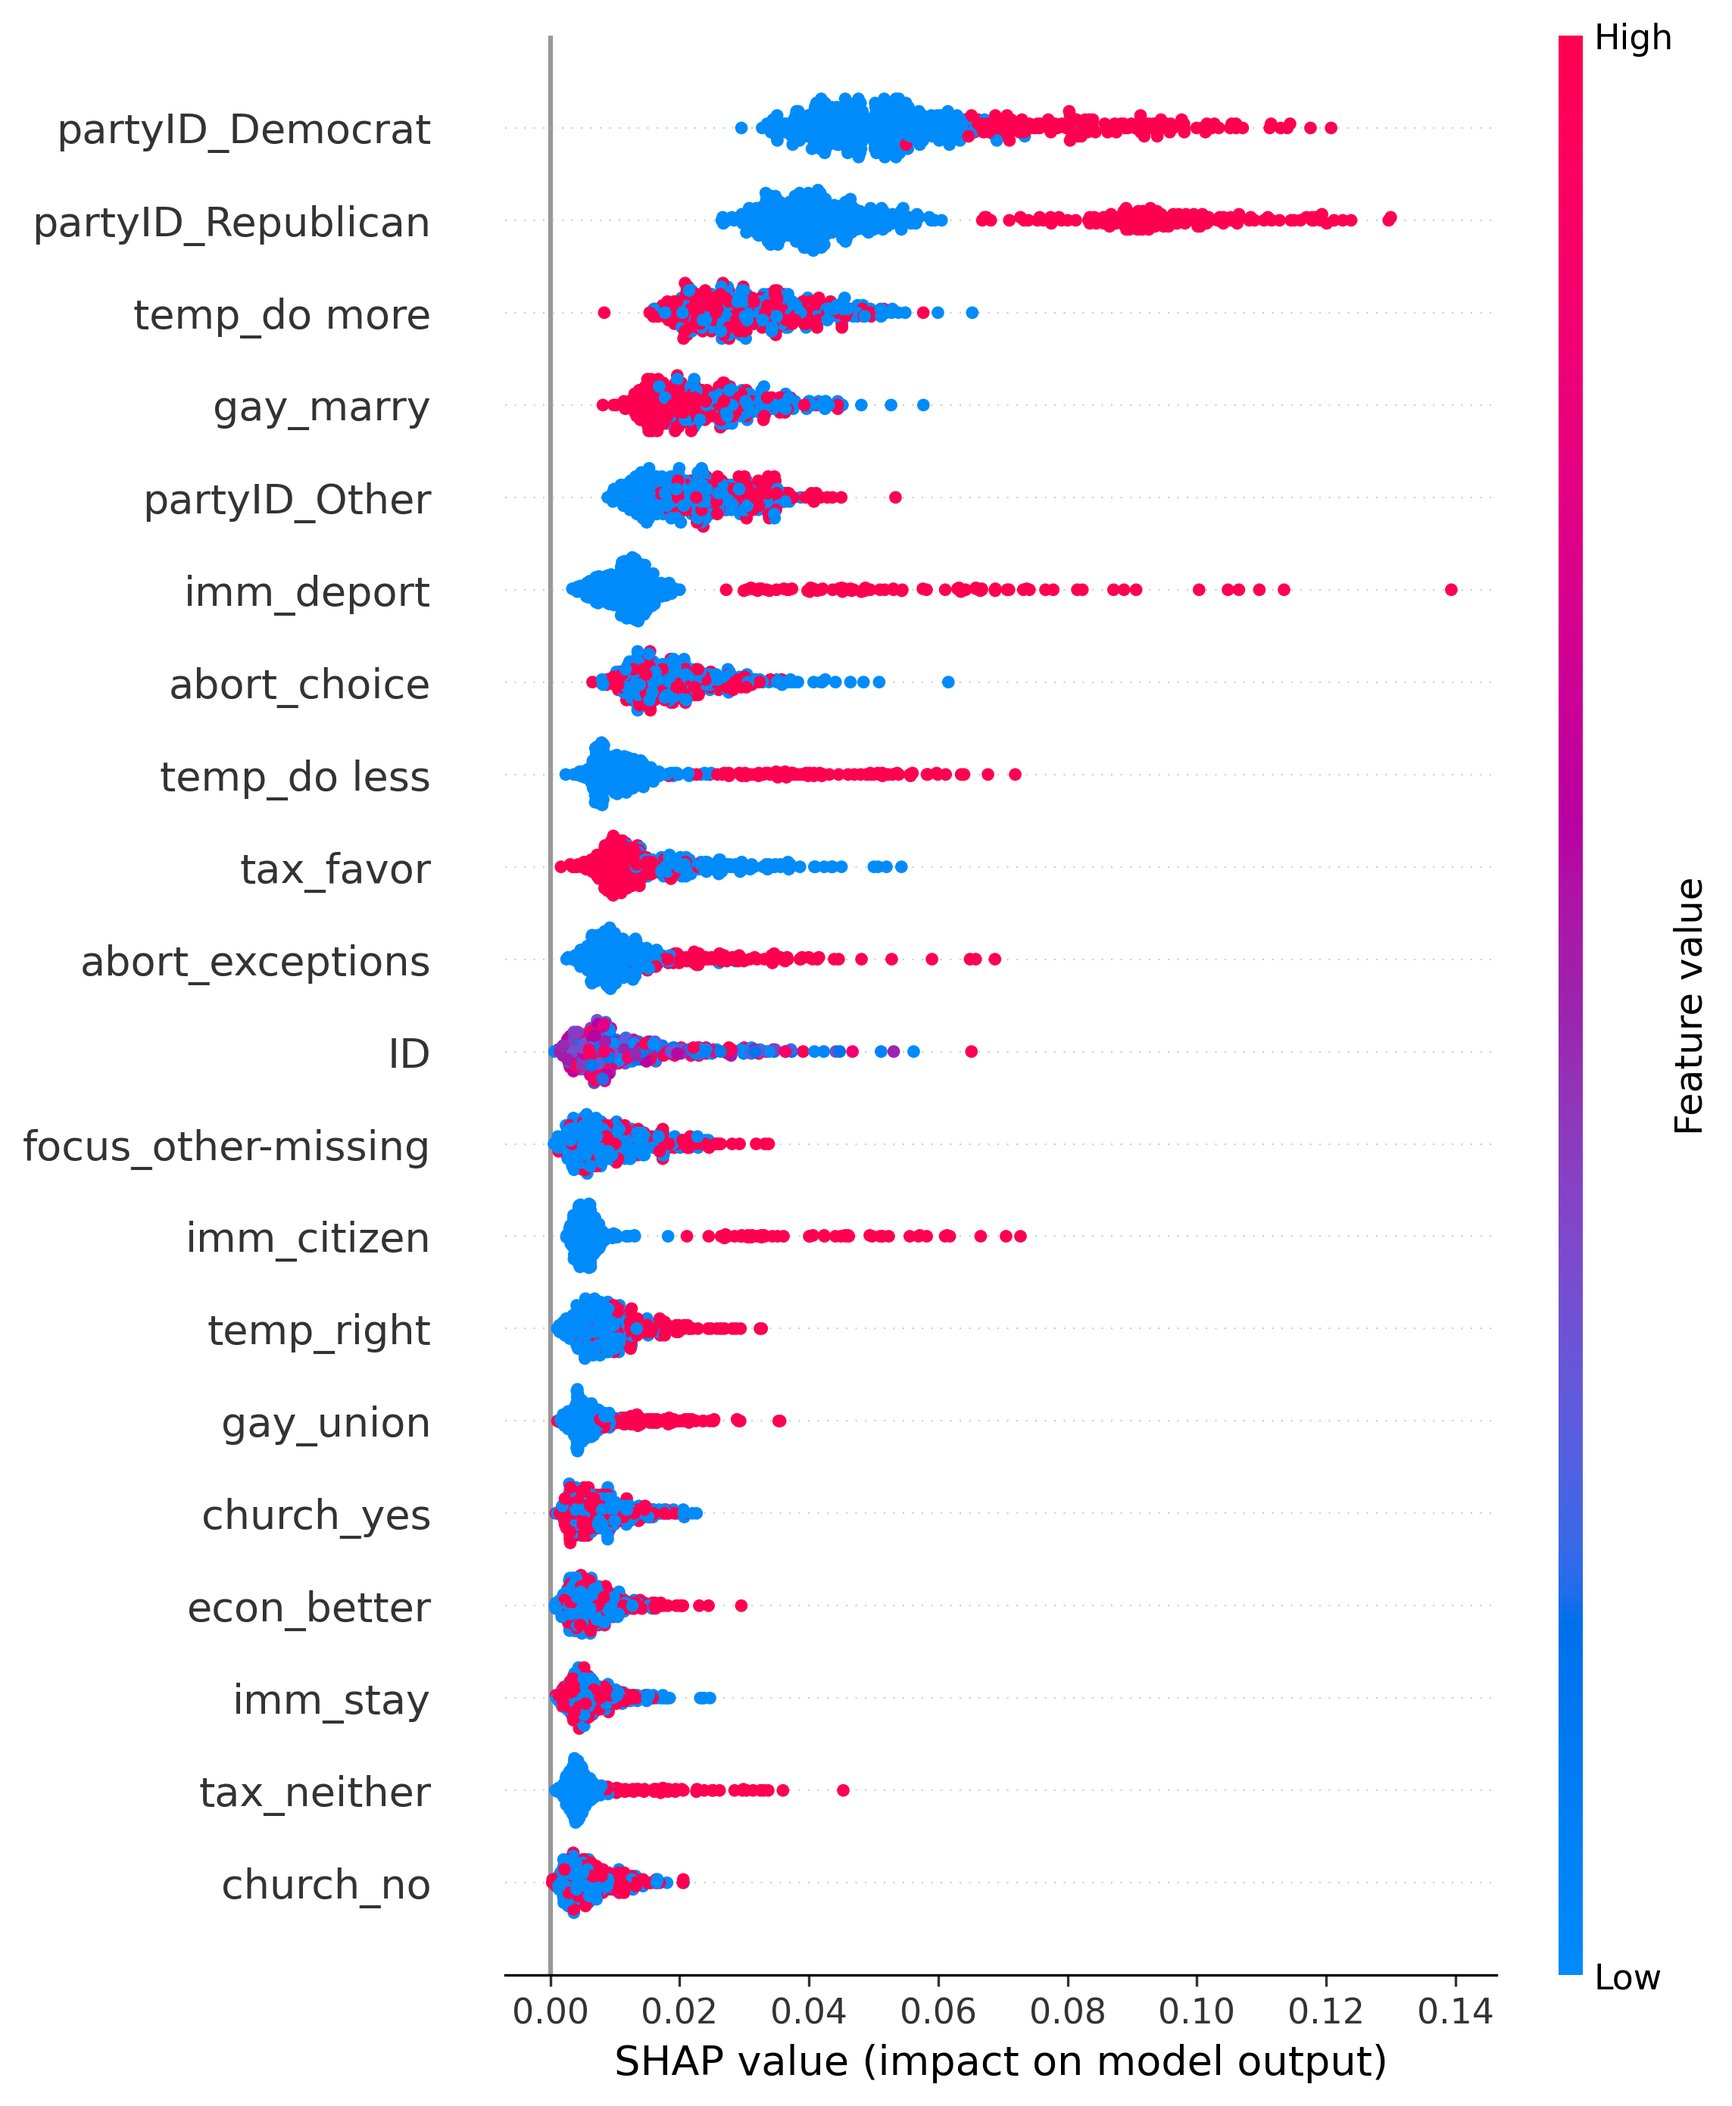
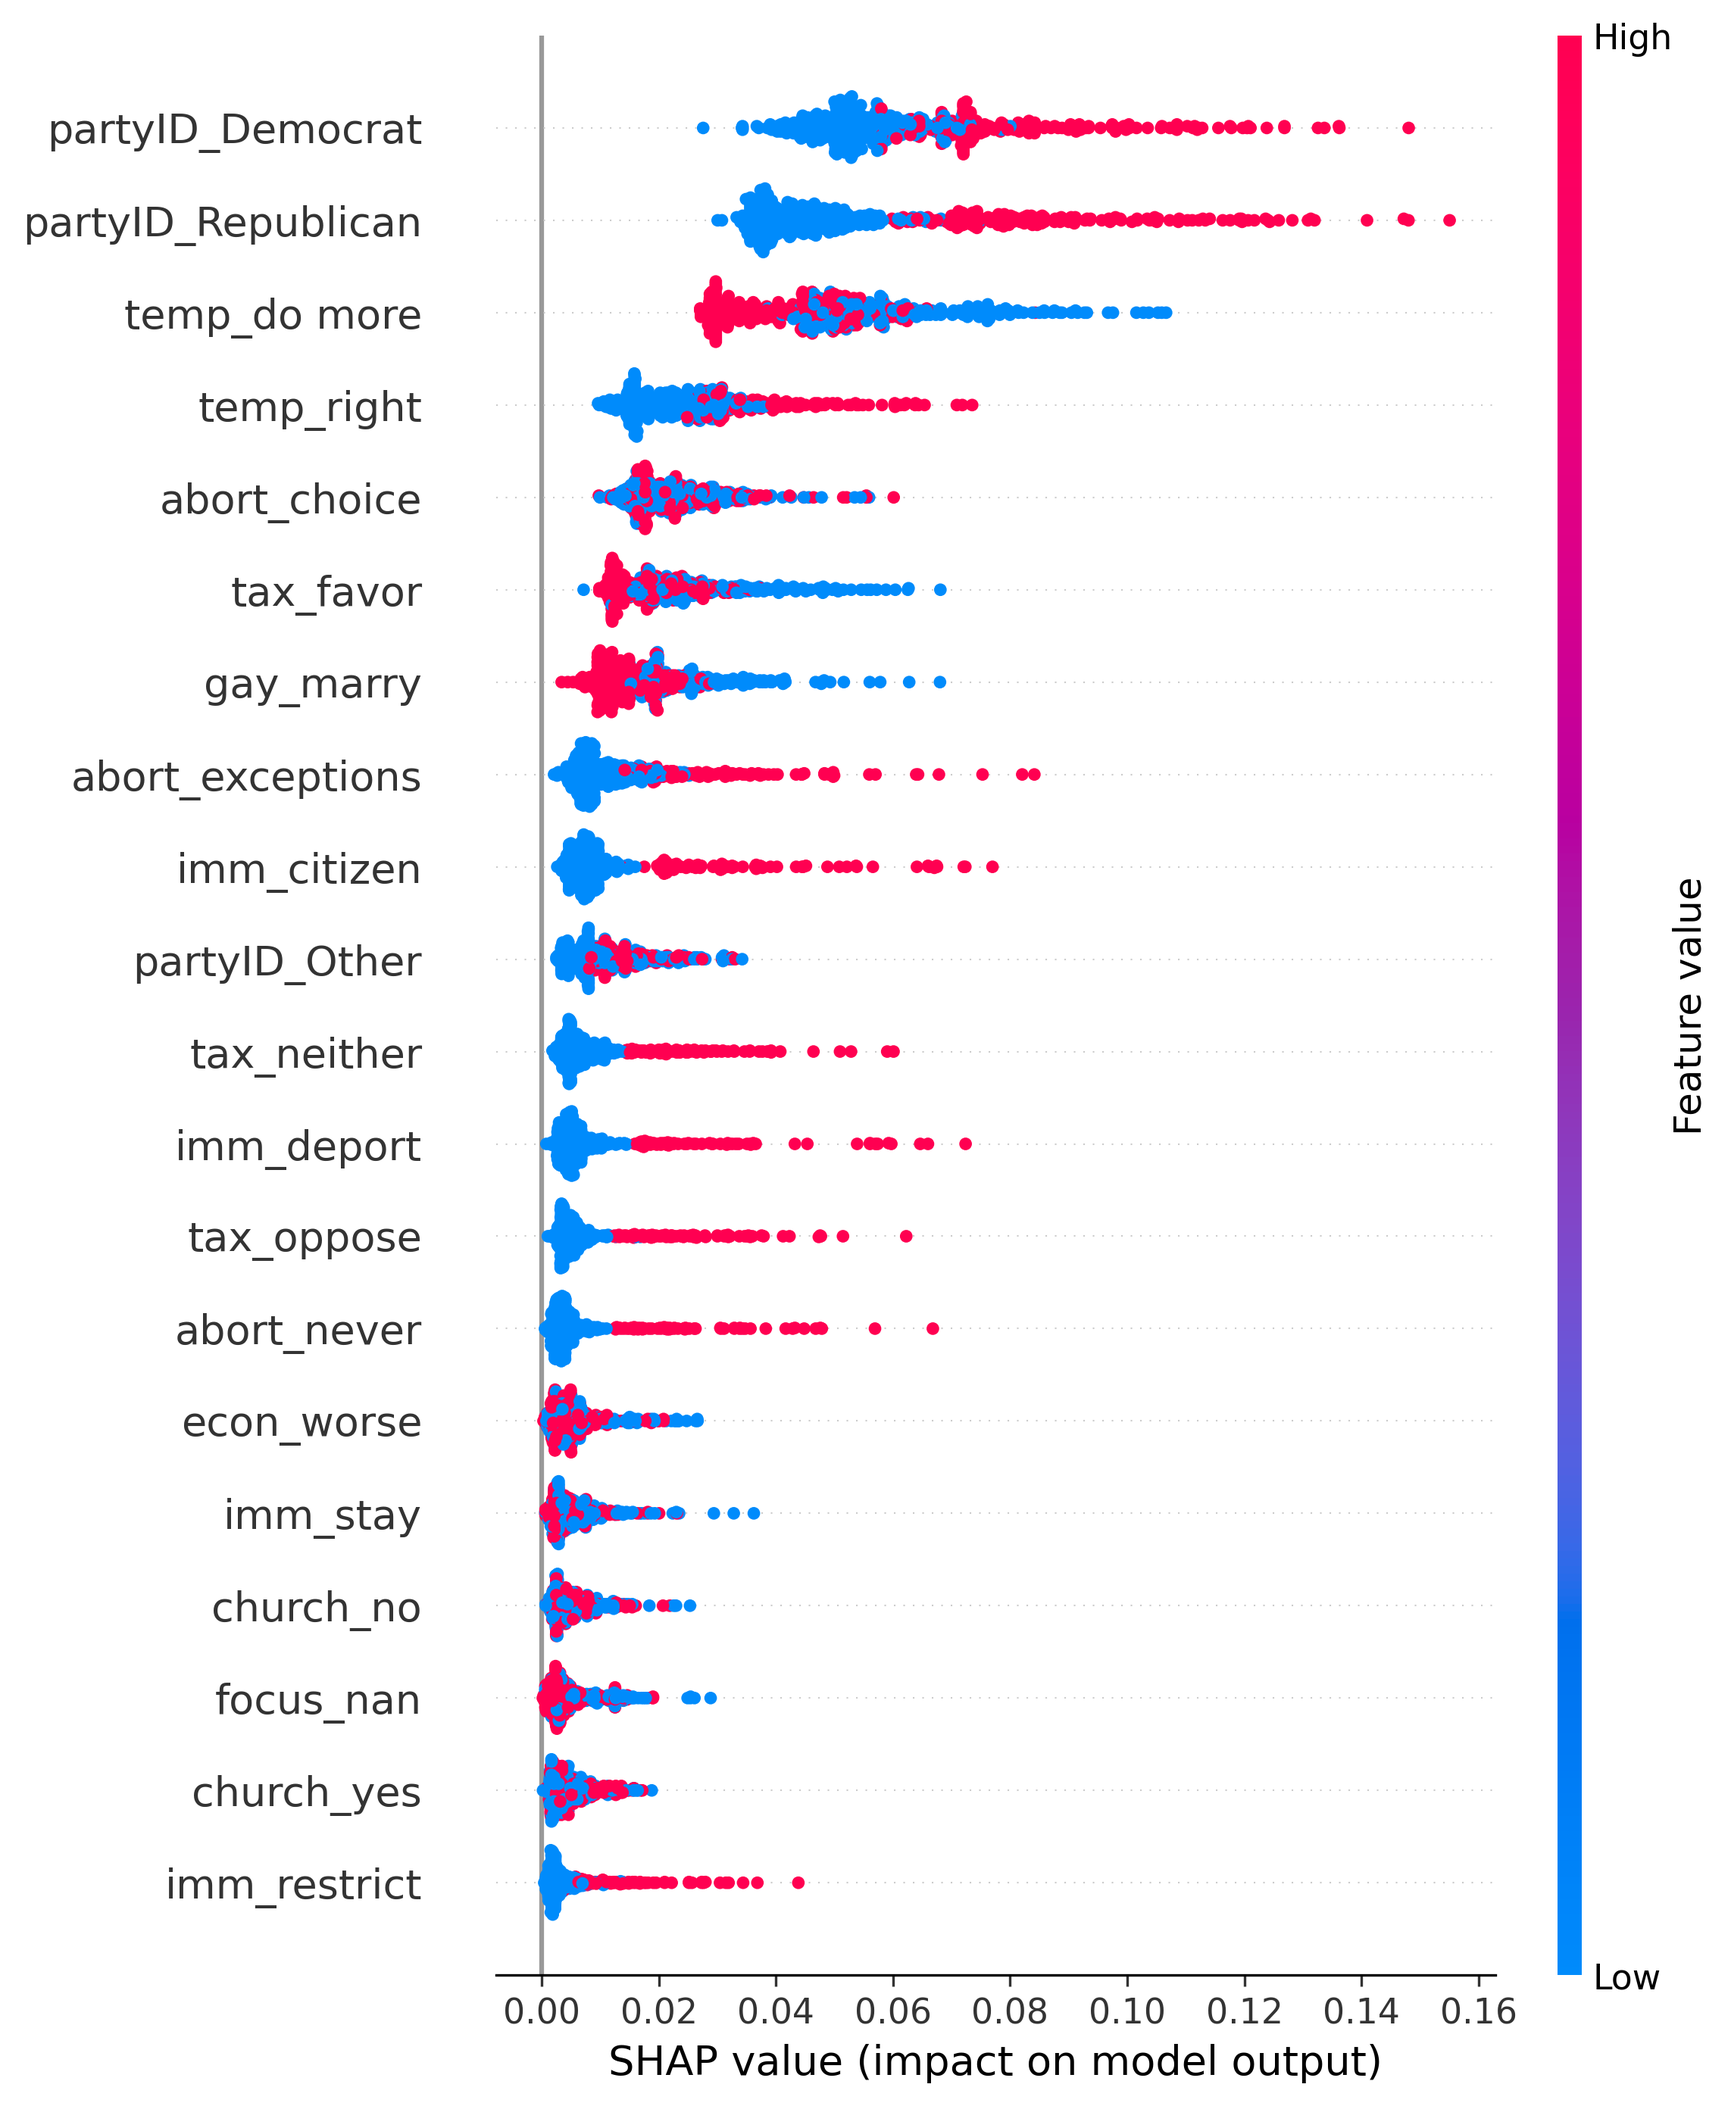
playing a bit more with SHAP values and also with more theoretical models to explain belief change

diff --git a/ANES/5_fit_mdl.py b/ANES/5_fit_mdl.py
@@ -11,11 +11,10 @@ import matplotlib.pyplot as plt
 data_complete = pd.read_csv('data/anes_complete.csv')
 
 # start with 2016
-data_complete = data_complete[data_complete['year']==2016]
+data_complete = data_complete[data_complete['year']==2020]
 data_complete = data_complete[data_complete['question'] != 'vote']
 data_beliefs = data_complete[~data_complete['question'].isin(['who', 'pref'])]
 data_voting = data_complete[data_complete['question'] == 'who']
-
 
 # data voting is now easy to use as outcome y
 data_voting = data_voting[['ID', 'answer']].drop_duplicates()
@@ -28,26 +27,24 @@ data_beliefs_wide = data_beliefs.pivot(index='ID', columns='question', values='a
 data_total = data_beliefs_wide.merge(data_voting, on='ID', how='inner')
 data = data_total.dropna()
 
+# Drop 'ID' column
+data = data_total.drop(columns='ID')
+
 # --- Preprocessing --- #
 X = data.drop("answer", axis=1)
 y = data["answer"]
 
-# Preprocess
-categorical_columns = X.select_dtypes(include="object").columns.tolist()
-numeric_columns = X.select_dtypes(include="number").columns.tolist()
+# Identify categorical columns (all columns in this case are categorical)
+categorical_columns = X.columns.tolist()
 
 # OneHotEncode categorical features
 ohe = OneHotEncoder()
-X_encoded = ohe.fit_transform(X[categorical_columns]).toarray()
+X_encoded = ohe.fit_transform(X).toarray()
 encoded_feature_names = ohe.get_feature_names_out(categorical_columns)
 
-# Standardize numeric features
-scaler = StandardScaler()
-X_scaled = scaler.fit_transform(X[numeric_columns])
-
-# Combine processed features
-X_processed = np.hstack((X_scaled, X_encoded))
-all_feature_names = numeric_columns + list(encoded_feature_names)
+# Combine processed features (only one-hot encoded features)
+X_processed = X_encoded
+all_feature_names = list(encoded_feature_names)
 
 # Split data
 X_train, X_test, y_train, y_test = train_test_split(X_processed, y, test_size=0.2, random_state=42)
@@ -83,10 +80,19 @@ shap.summary_plot(shap_values_class, X_test, feature_names=all_feature_names, sh
 plt.savefig("ml/shap_lib.png", dpi=300, bbox_inches="tight")
 plt.close()
 
-# figure out what the features actually are # 
+class_index = 1
+shap_values_class = shap_values[:, :, class_index]
+fig, ax = plt.subplots()
+shap.summary_plot(shap_values_class, X_test, feature_names=all_feature_names, show=False)
+plt.savefig("ml/shap_novote.png", dpi=300, bbox_inches="tight")
+plt.close()
+
 class_index = 3
 shap_values_class = shap_values[:, :, class_index]
-shap.summary_plot(shap_values_class, X_test, feature_names=all_feature_names)
+fig, ax = plt.subplots()
+shap.summary_plot(shap_values_class, X_test, feature_names=all_feature_names, show=False)
+plt.savefig("ml/shap_cons.png", dpi=300, bbox_inches="tight")
+plt.close()
 
 '''
 What if we are interested in the importance of QUESTIONS rather than ANSWERS. 
@@ -94,27 +100,68 @@ i.e., a QUESTION with many levels will be dilluted in the feature importance.
 '''
 
 shap_values_aggregated = pd.DataFrame(shap_values_mean, columns=all_feature_names)
-shap_values_aggregated = shap_values_aggregated.drop(columns='ID')
 shap_cols = shap_values_aggregated.columns
 feature_dict = {col: col.split('_')[0] for col in shap_cols}
 shap_aggregated = shap_values_aggregated.groupby(feature_dict, axis=1).sum()
 question_importance = shap_aggregated.abs().mean().sort_values(ascending=False)
 question_importance
 
-'''
-So here we get (by far) party identification.
-Then temperature, focus, abortion, immigration, ...
-Church attendance (behavior) is the worst. 
-'''
+### local
+class_of_interest = 'Republican'
 
-'''
-How to think about these SHAPLEY values
-- marginal contribution (unique contribution); but can also "steal" variance + capture some interaction
-'''
+correct_idx = np.where((y_test == class_of_interest) & (y_pred == class_of_interest))[0][0]
+incorrect_idx = np.where((y_test == class_of_interest) & (y_pred != class_of_interest))[0][0]
 
-# recursive feature elimination (RFE)
+print(f"Shape of shap_values[class_index]: {shap_values[class_index].shape}")
+print(f"Shape of X_test: {X_test.shape}")
+print(f"Length of feature_names: {len(all_feature_names)}")
+
+def plot_shap_explanation_precomputed(shap_values, X, index, feature_names, class_index, save_path=None):
+    """
+    Plot SHAP explanation for a single observation using precomputed SHAP values.
+
+    Parameters:
+        shap_values: List of SHAP value arrays (one array per class)
+        X: Test dataset (already preprocessed)
+        index: Index of the observation to explain
+        feature_names: List of feature names
+        class_index: Index of the class to explain
+        save_path: Path to save the plot (optional)
+    """
+    # Ensure SHAP values and feature names align
+    if X.shape[1] != len(feature_names):
+        raise ValueError("Feature names do not match the dimensions of X!")
+
+    # Extract SHAP values for the specific class and observation
+    shap_values_obs = shap_values[class_index][index]
+    observation = X[index]
+
+    # Generate force plot
+    shap.force_plot(
+        explainer.expected_value[class_index],
+        shap_values_obs,
+        observation,
+        feature_names=feature_names,
+        matplotlib=True
+    )
+    
+    # Save or show the plot
+    if save_path:
+        plt.savefig(save_path, dpi=300, bbox_inches="tight")
+        plt.close()
+    else:
+        plt.show()
 
 
+plot_shap_explanation_precomputed(
+        shap_values,
+        X_test,
+        correct_idx,
+        all_feature_names,
+        class_index=3,
+        #save_path="ml/shap_correct_class_3.png"
+    )
+    
 '''
 Suggestions for Improvement
 

diff --git a/ANES/2_mdl.py b/ANES/2_mdl.py
@@ -60,6 +60,7 @@ average_pivot = average_pivot.rename(columns = {2016: 'average_x_2016',
 # \delta x_{a_i} ~ dist(x_{p_i}, x_{a_i})
 merged_df = lagged_df.merge(average_pivot, on='ID', how='inner')
 merged_df['centroid_distance'] = abs(merged_df['average_x_2016']-merged_df['xvalue_lag'])
+merged_df['centroid_'] = merged_df['average_x_2016']-merged_df['xvalue_lag']
 
 # average values by SD of beliefs
 # is it that each belief is more likely to change, or that the aggregate (individual) is more likely to change? 
@@ -100,7 +101,13 @@ def plot_question(df, col_x, col_y, title, xlab, ylab, save=None):
     for question, color in zip(unique_questions, palette):
         legend_handles.append(mlines.Line2D([], [], color=color, marker='o', linestyle='None', label=question))
     legend_handles.append(mlines.Line2D([], [], color=color_pop, label='Population'))
-    ax.legend(handles=legend_handles, title='Question')
+    ax.legend(
+        handles=legend_handles,
+        title='Question',
+        bbox_to_anchor=(1.05, 1),  # Move legend outside the plot (to the right)
+        loc='upper left',          # Position at the upper-left corner of the bounding box
+        borderaxespad=0            # Adjust padding
+    )
     ax.set_title(title)
     plt.ylabel(ylab)
     plt.xlabel(xlab)
@@ -169,7 +176,7 @@ plot_question(
     title = r'$|\Delta x_{a, i}| \sim |dist(x_{p, i}, x_{a, i})|_{t-1}$',
     xlab = r'$|dist(x_{p, i}, x_{a, i})|_{t-1}$',
     ylab = r'$|\Delta x_{a, i}|$',
-    #save = 'figres/m3.png'
+    save = 'figres/m3_p2.png'
 )
 
 # plot model 4 
@@ -214,3 +221,91 @@ plot_individual(
     ylab = r'$avg(|\Delta x_{a, i}|)$',
     #save = 'figres/m6.png'
 )
+
+plot_question(
+    df = merged_df,
+    col_x = 'centroid_',
+    col_y = 'xvalue_delta_abs',
+    title = r'$|\Delta x_{a, i}| \sim |dist(x_{p, i}, x_{a, i})|_{t-1}$',
+    xlab = r'$|dist(x_{p, i}, x_{a, i})|_{t-1}$',
+    ylab = r'$|\Delta x_{a, i}|$',
+    #save = 'figres/m3.png'
+)
+
+from numpy.polynomial.polynomial import Polynomial
+
+# now do it for each one;
+unique_question = merged_df['question'].unique()
+degree = 2
+colors = plt.cm.get_cmap("tab10", len(unique_question))  # Use a categorical colormap
+fig, ax = plt.subplots(figsize=(7, 4))
+for i, q in enumerate(unique_question): 
+    df_sub = merged_df[merged_df['question'] == q]
+
+    x = df_sub['centroid_']
+    y = df_sub['xvalue_delta_abs']
+    coefficients = np.polyfit(x, y, degree)
+    polynomial = np.poly1d(coefficients)
+
+    # Predict values
+    x_fit = np.linspace(min(x), max(x), 200)  # High resolution for a smooth curve
+    y_fit = polynomial(x_fit)
+
+    # Plot data points and fit line (label only on the line to avoid duplication)
+    plt.scatter(x, y, alpha=0.02, color=colors(i))  # Scatter plot without label
+    plt.plot(x_fit, y_fit, color=colors(i), label=f"{q}")  # Polynomial fit with label
+
+# Add legend
+plt.legend(bbox_to_anchor=(1.05, 1), loc='upper left', title="Questions")
+plt.xlabel("Centroid")
+plt.ylabel("Delta Abs")
+plt.title("Polynomial Fit by Question")
+plt.tight_layout()
+plt.show();
+
+# Even more naturally
+# We can do both not ABS. 
+merged_df['xvalue_delta'] = merged_df['xvalue']-merged_df['xvalue_lag']
+plot_question(
+    df = merged_df,
+    col_x = 'centroid_',
+    col_y = 'xvalue_delta',
+    title = 'Belief Change by Centroid Distance',
+    xlab = r'$x_{p, i, (t-1)}-x_{a, i, (t-1)}$',
+    ylab = r'$x_{a, i, (t)}-x_{a, i, (t-1)}$',
+    save = 'figres/directional.png'
+)
+
+# Probably we would have to test 
+# This against a baseline, e.g. 
+# How do opinions move just against
+# Where the were before 
+plot_question(
+    df = merged_df,
+    col_x = 'xvalue',
+    col_y = 'xvalue_delta',
+    title = 'Baseline',
+    xlab = r'x(t-1)',
+    ylab = r'x(t)-x(t-1)',
+    save = 'figres/baseline.png'
+)
+
+unique_question = merged_df['question'].unique()
+degree = 2
+for q in unique_question: 
+    df_sub = merged_df[merged_df['question'] == q]
+
+    x = df_sub['centroid_']
+    y = df_sub['xvalue_delta']
+    coefficients = np.polyfit(x, y, degree)
+    polynomial = np.poly1d(coefficients)
+
+    # Predict values
+    x_fit = np.linspace(min(x), max(x), 200)  # High resolution for a smooth curve
+    y_fit = polynomial(x_fit)
+
+    # Plot
+    plt.scatter(x, y, alpha=0.5) #, label="Data")
+    plt.plot(x_fit, y_fit) #, label=f"Polynomial Fit (degree {degree})")
+    #plt.legend()
+    #plt.show()
